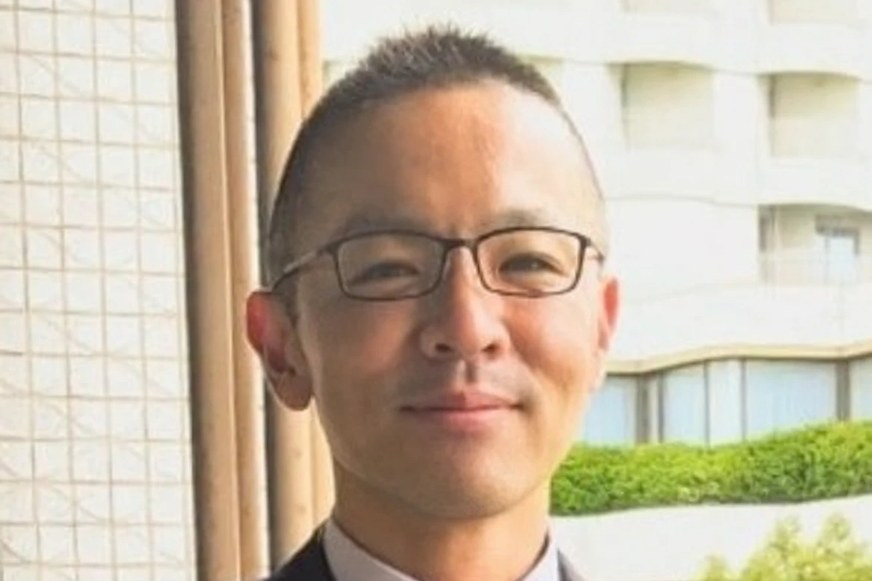
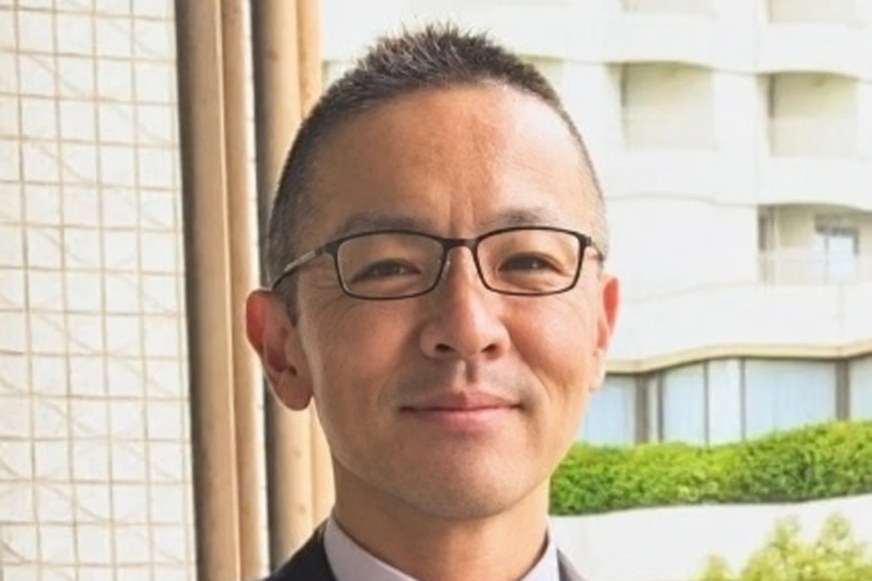
代表の写真を最新の写真で作り直し、写真の指定に版の目印（?v=20261026）を付けた。ブラウザが前の髭ありの写真を覚えたまま出していたため

diff --git a/about/index.html b/about/index.html
@@ -14,7 +14,7 @@
 <meta property="og:title" content="代表紹介 三宅耕平｜株式会社AIのアサヒ屋">
 <meta property="og:description" content="神戸から来て、佐世保で生きると決めました。お仕事は、原則 長崎県内。県外はご紹介のみ対応しています。">
 <meta property="og:url" content="https://asahiya-ai.com/about/">
-<meta property="og:image" content="https://asahiya-ai.com/about/images/ogp.jpg">
+<meta property="og:image" content="https://asahiya-ai.com/about/images/ogp.jpg?v=20261026">
 <meta property="og:site_name" content="株式会社AIのアサヒ屋">
 <meta property="og:locale" content="ja_JP">
 <meta name="twitter:card" content="summary_large_image">
@@ -30,7 +30,7 @@
     "alternateName": "みやけ こうへい",
     "jobTitle": "代表取締役",
     "worksFor": {"@type": "Organization", "name": "株式会社AIのアサヒ屋", "url": "https://asahiya-ai.com/"},
-    "image": "https://asahiya-ai.com/about/images/miyake-face.jpg",
+    "image": "https://asahiya-ai.com/about/images/miyake-face.jpg?v=20261026",
     "homeLocation": {"@type": "Place", "name": "長崎県佐世保市"},
     "sameAs": ["https://www.facebook.com/kohei.miyake.526"]
   }
@@ -320,7 +320,7 @@
 <div class="hero">
   <div class="wrap">
     <figure class="hero-photo">
-      <img src="images/miyake-face.jpg" alt="スーツ姿の三宅耕平" width="436" height="497" fetchpriority="high">
+      <img src="images/miyake-face.jpg?v=20261026" alt="スーツ姿の三宅耕平" width="436" height="497" fetchpriority="high">
     </figure>
     <div>
       <p class="hero-label">代表紹介</p>
@@ -488,7 +488,7 @@
 <!-- ご相談 -->
 <section class="sec cta" id="contact">
   <div class="wrap">
-    <div class="cta-face"><img src="images/miyake-face.jpg" alt="" width="436" height="497" loading="lazy"></div>
+    <div class="cta-face"><img src="images/miyake-face.jpg?v=20261026" alt="" width="436" height="497" loading="lazy"></div>
     <h2>まずは、話してみませんか？</h2>
     <p>「こんなこと聞いていいのかな」で大丈夫です。<br>三宅が、直接お返事します。</p>
     <div class="cta-btns">

diff --git a/index.html b/index.html
@@ -1059,7 +1059,7 @@
 <section id="report">
   <div class="inner">
     <a class="report-card reveal" href="about/">
-      <span class="report-thumb"><img src="about/images/card.jpg" width="436" height="291" loading="lazy" alt="スーツ姿の代表 三宅耕平"></span>
+      <span class="report-thumb"><img src="about/images/card.jpg?v=20261026" width="436" height="291" loading="lazy" alt="スーツ姿の代表 三宅耕平"></span>
       <span class="report-body">
         <span class="eyebrow">代表紹介</span>
         <span class="report-title">神戸から来て、佐世保で生きると決めました。</span>
